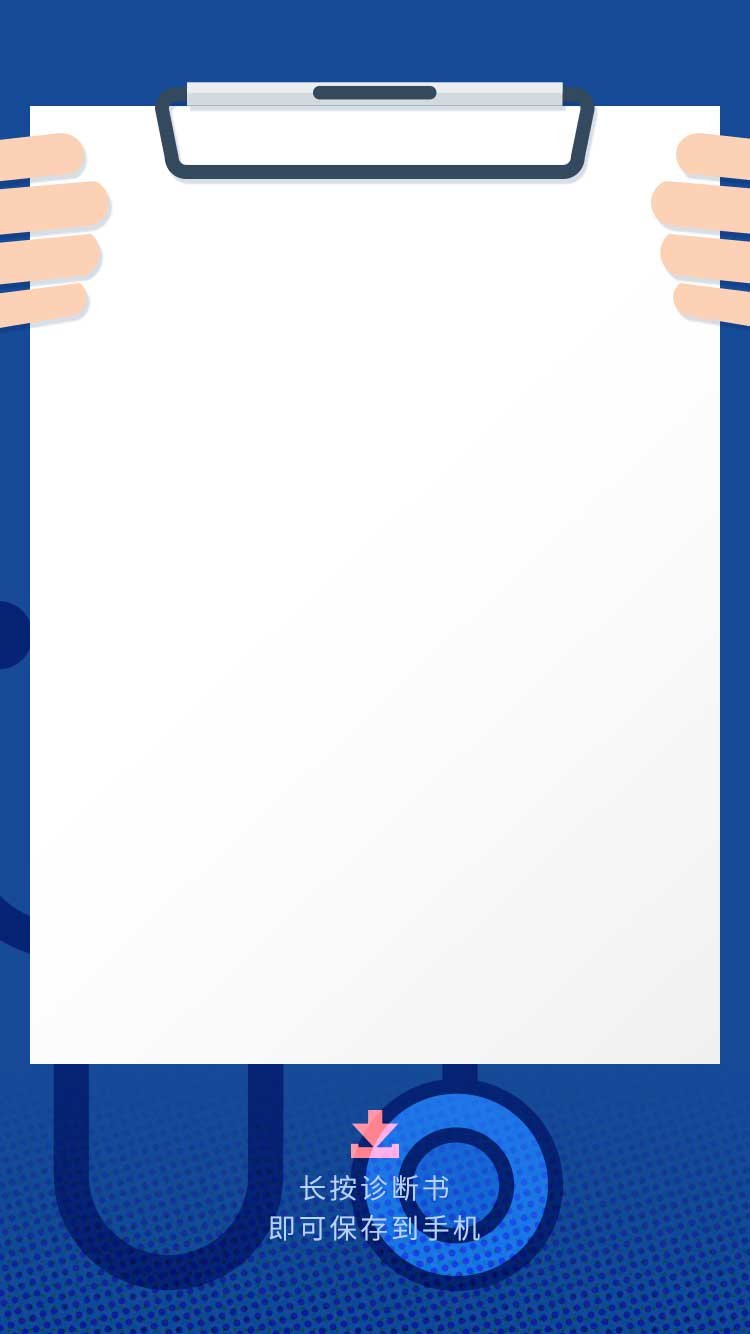
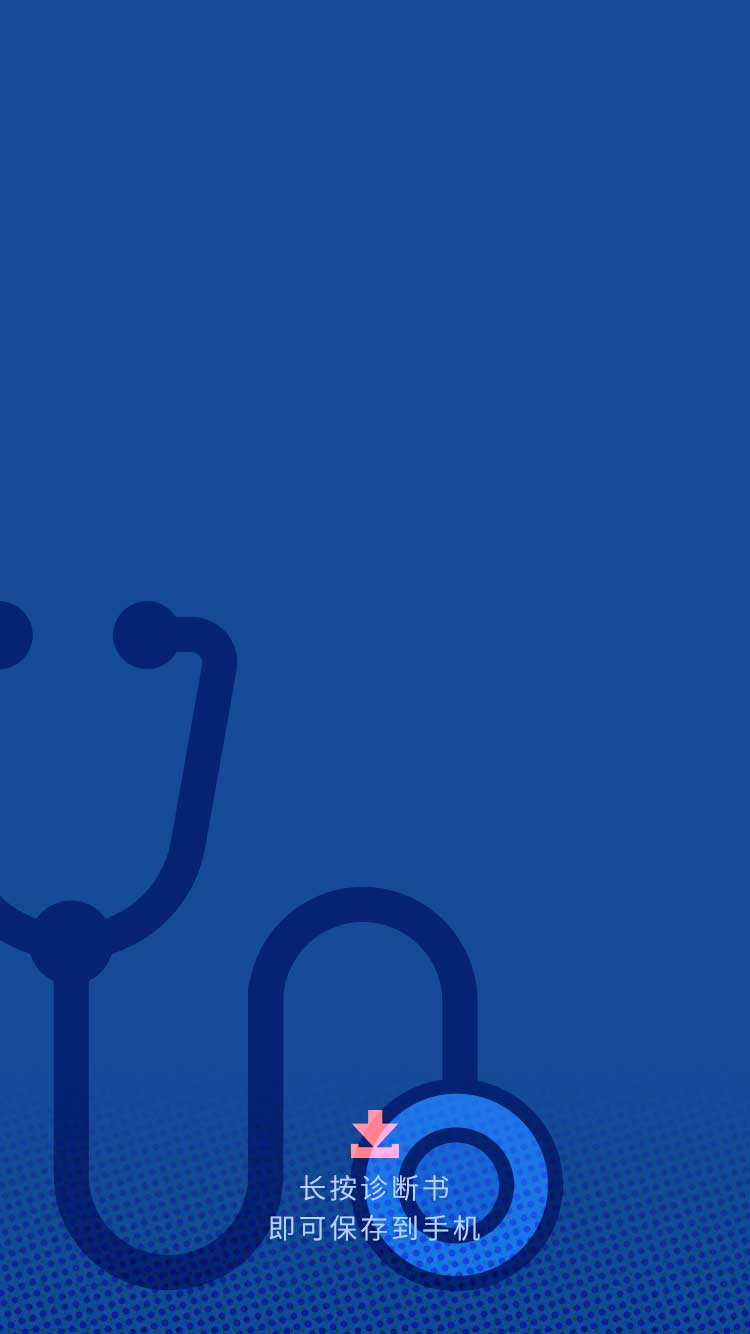
skhjdnf

diff --git a/index.html b/index.html
@@ -37,6 +37,7 @@
         background-repeat: no-repeat;
         background-size: cover;
         background-position: center;
+        position:relative;
       }
       input {
         border: 1px solid red;
@@ -100,8 +101,30 @@
       .four-page {
         width: 91%;
         height: 72%;
+        background: #ffffff;
         margin: 14.5% auto 0;
         font-size: 1.4rem;
+      }
+      .four-page-clip{
+        position:absolute;
+        top:5.8%;
+        left:20%;
+        width:60%;
+        height:auto;
+      }
+      .four-page-left-hand{
+        position:absolute;
+        top:10%;
+        left:-5%;
+        width:20%;
+        height:auto;
+      }
+      .four-page-right-hand{
+        position:absolute;
+        top:10%;
+        right:-5%;
+        width:20%;
+        height:auto;
       }
       .four-page-title {
         padding-top: 11%;
@@ -119,22 +142,23 @@
         display: flex;
         justify-content: space-between;
       }
-      .customer-item-name{
+      .customer-item-name {
         display: inline-block;
         flex: 1;
       }
-      .customer-item-department{
+      .customer-item-department {
         display: inline-block;
         flex: 1.5;
       }
-      .customer-item-clinic{
+      .customer-item-clinic {
         display: inline-block;
         flex: 1;
-        text-align: right; 
+        text-align: right;
       }
       .four-page-result {
         margin: 0 4%;
         padding: 9% 0;
+        height:45%;
         border-top: 1px dotted #333333;
         border-bottom: 1px dotted #333333;
       }
@@ -149,20 +173,19 @@
         flex: 1.2;
       }
       .four-page-sign-left-img {
-        width:50%;
+        width: 50%;
         height: auto;
       }
       .four-page-sign-right {
         flex: 1;
-        position:relative;
+        position: relative;
       }
-      .four-page-sign-right-img{
-        width:70%;
-        height:auto;
-        position:absolute;
-        left:-0.5rem;
-        top:1rem;
-
+      .four-page-sign-right-img {
+        width: 70%;
+        height: auto;
+        position: absolute;
+        left: -0.5rem;
+        top: 1rem;
       }
     </style>
   </head>
@@ -227,6 +250,7 @@
         </image>
         </svg>
       </div> -->
+
       <div class="four-page">
         <p class="four-page-title">春节假期综合症专科诊疗医院</p>
         <p class="four-page-title-second">诊断证明书</p>
@@ -251,9 +275,18 @@
           <div class="four-page-sign-right">
             <p>日期：</p>
             <p>医师：Dr.Kaopu</p>
-            <img src="./images/stamp.png" alt="" class="four-page-sign-right-img">
+            <img
+              src="./images/stamp.png"
+              alt=""
+              class="four-page-sign-right-img"
+            />
           </div>
         </div>
+      </div>
+      <div>
+        <img src="./images/clip.png" class="four-page-clip"/>
+        <img src="./images/left_hand.png" class="four-page-left-hand"/>
+        <img src="./images/right_hand.png" class="four-page-right-hand"/>
       </div>
     </div>
     <script>
